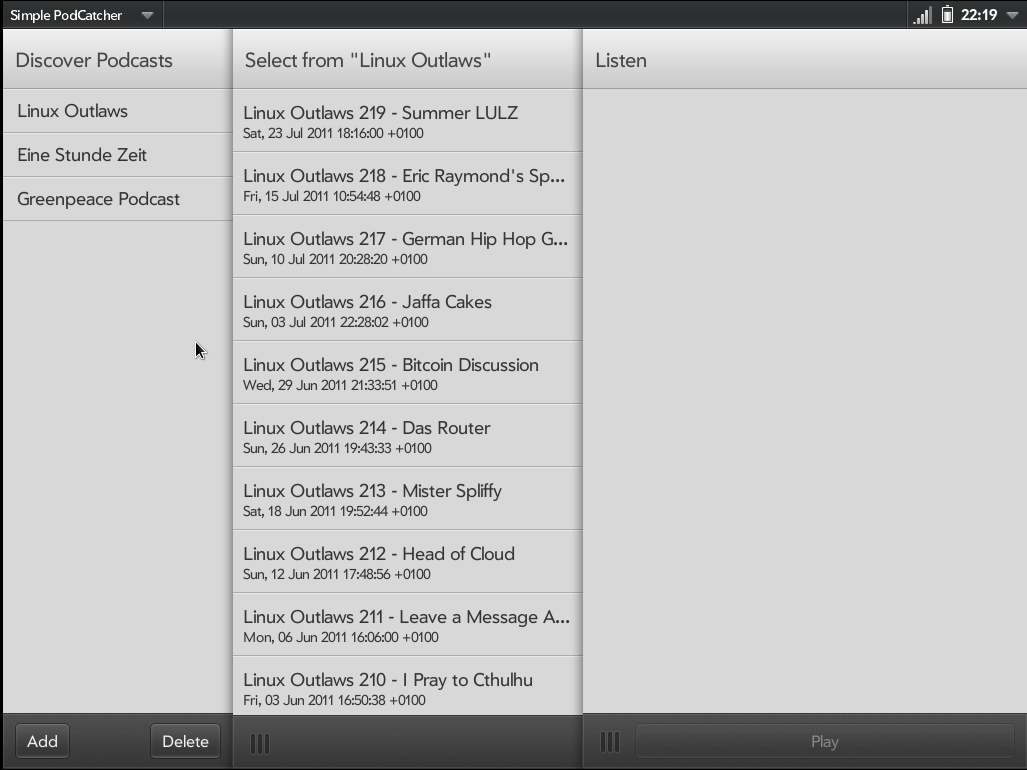
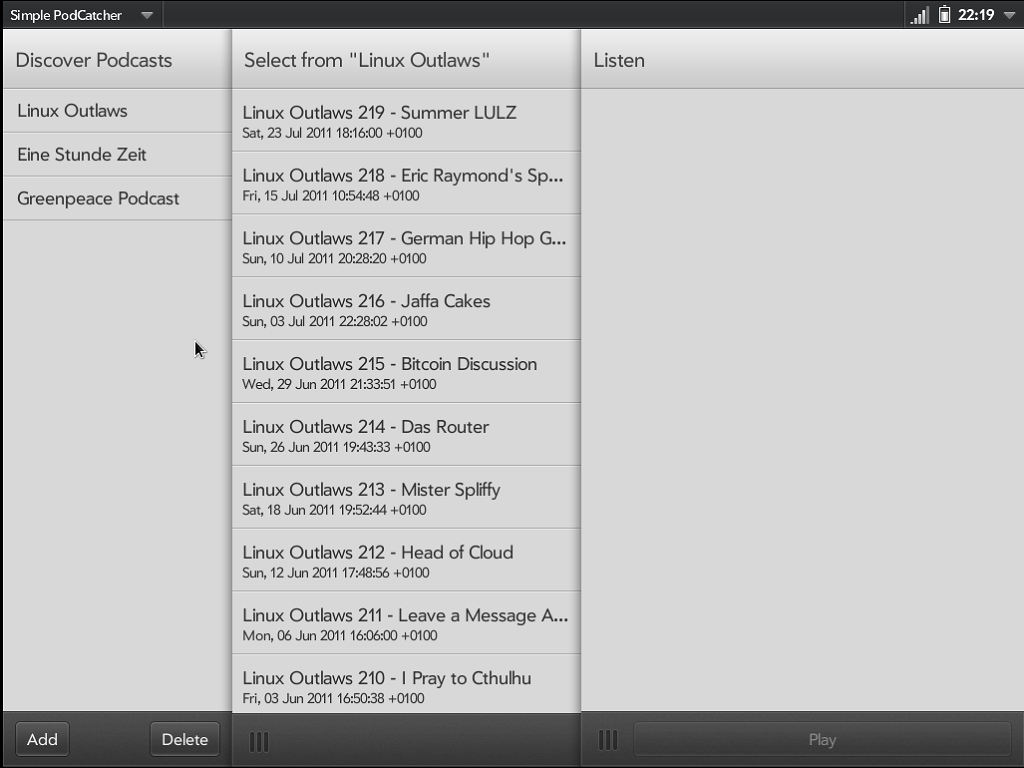
adjust screenshot size, add mock feed

diff --git a/source/FeedList.js b/source/FeedList.js
@@ -146,5 +146,9 @@ enyo.kind({
 			title: "Newshour",
 			url: "http://downloads.bbc.co.uk/podcasts/worldservice/newshour/rss.xml"
 		});
+		this.feedList.push({
+			title: "Anderson Cooper 360°",
+			url: "http://rss.cnn.com/services/podcasting/ac360/rss"
+		});
 	}
 }); 
